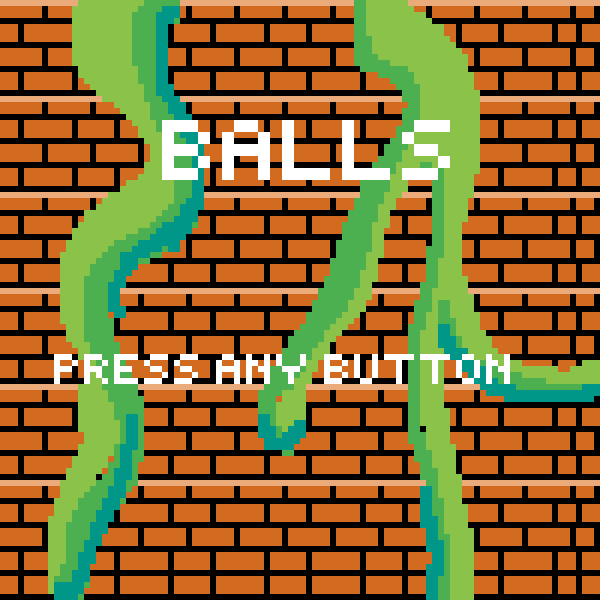
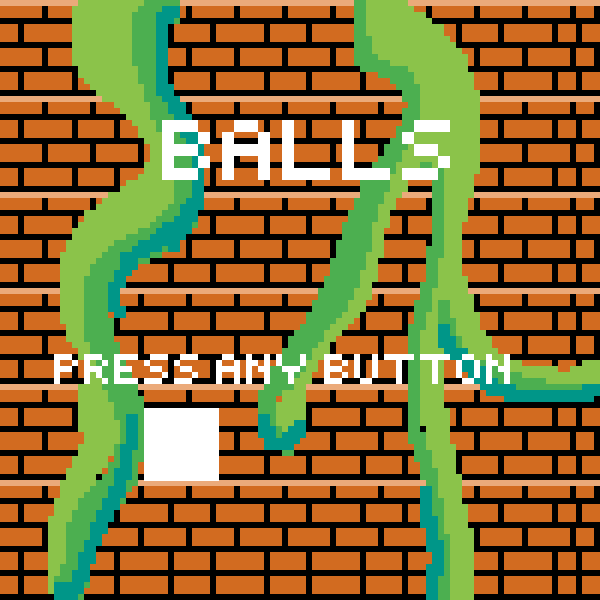
Дизайн проекта с загрузкой

Changed region(s): [[0.24, 0.66, 0.39, 0.81]]

diff --git a/pygame_1.py b/pygame_1.py
@@ -1,10 +1,5 @@
-import os
-import sys
+import time
 import pygame
-import copy
-from PyQt5.QtGui import QPixmap, QPalette, QColor
-from PyQt5.QtWidgets import QApplication, QMainWindow, QTableWidgetItem, QLabel, QWidget, QPushButton, QLineEdit, \
-    QPlainTextEdit, QMessageBox, QFileDialog, QComboBox
 
 from d import Ui_MainWindow
 all_sprites = pygame.sprite.Group()
@@ -24,10 +19,10 @@ all_sprites2.add(sprite2)
 
 
 bg = pygame.image.load("sp/backgroung.png")
-bg2 = pygame.image.load("sp/menu.png")
+bg2 = [pygame.image.load("sp/menu.png"), pygame.image.load("sp/menu_2.png") , pygame.image.load("sp/menu_3.png"),
+       pygame.image.load("sp/menu_2.png")]
 
 def menu():
-    circles = []
     if __name__ == '__main__':
         pygame.init()
         pygame.display.set_caption('ШАРЫ')
@@ -35,12 +30,15 @@ def menu():
         running = True
         clock = pygame.time.Clock()
         fps = 100
-
+        c = 0
         while running:
             for event in pygame.event.get():
                 if event.type == pygame.KEYDOWN:
                     running = False
-            screen.blit(bg2, (0, 0))
+            c = c % 4
+            screen.blit(bg2[c], (0, 0))
+            time.sleep(0.5)
+            c += 1
             clock.tick(fps)
             pygame.display.flip()
         main()
@@ -56,6 +54,7 @@ def main():
         clock = pygame.time.Clock()
         fps = 100
         sprite.rect.y = 520
+        sprite.rect.x = 300
         sprite2.rect.y = 300
         sprite2.rect.x = 400
 

diff --git a/main.py b/main.py
@@ -1,46 +1,10 @@
 import pygame
-import sys
 
-size = width, height = 800, 600
-black = 0, 0, 0
+pygame.init()
 
+win = pygame.display.set_mode((800, 450))
 
-def main():
-    pygame.init()
-    screen = pygame.display.set_mode(size)
-    ball_image = pygame.image.load("sp/ball.png")
-    ball_rect = ball_image.get_rect()
-    ball_rect.x = 101
-    ball_rect.y = 101
-    game_over = False
-    dx = 2
-    dy = 2
-    platform_x = 250
-    platform_y = 500
-    move_right = False
-    move_left = False
+pygame.display.set_caption("GAMER")
 
-    while not game_over:
-        for event in pygame.event.get():
-            if event.type == pygame.QUIT:
-                game_over = True
-        screen.fill(black)
-        pygame.draw.rect(screen, (255, 255, 255), (platform_x, platform_y, 150, 20))
-        screen.blit(ball_image, ball_rect)
-        ball_rect.x += dx
-        ball_rect.y += dy
-        if ball_rect.y > 500 or ball_rect.y < 0:
-            dy *= -1
-        if ball_rect.x > 700 or ball_rect.x < 0:
-            dx *= -1
-        # ------------------------------------------
-        if ball_rect.y > platform_y - 110 and ball_rect.x > platform_x and ball_rect.x < platform_x + 150:
-            dy *= -1
-        if move_left:
-            platform_x -= 1
-        pygame.display.flip()
-        pygame.time.wait(10)
-
-
-if __name__ == '__main__':
-    main()
+bg = pygame.image.load('sp/backgroung.png')
+playerStand = [pygame.image.load('sp/paddle1.png'), pygame.imag
